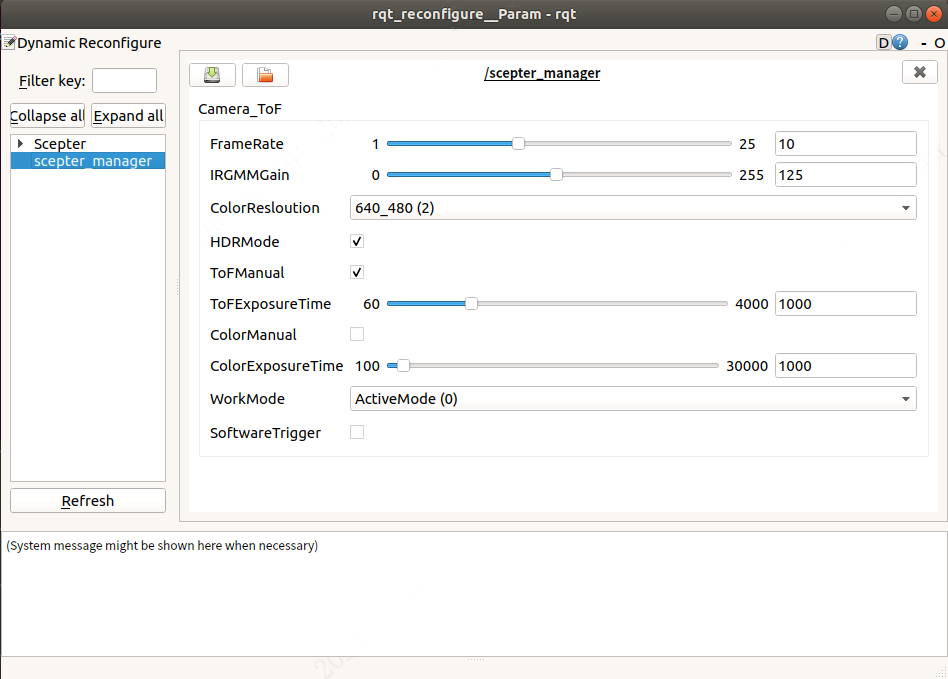
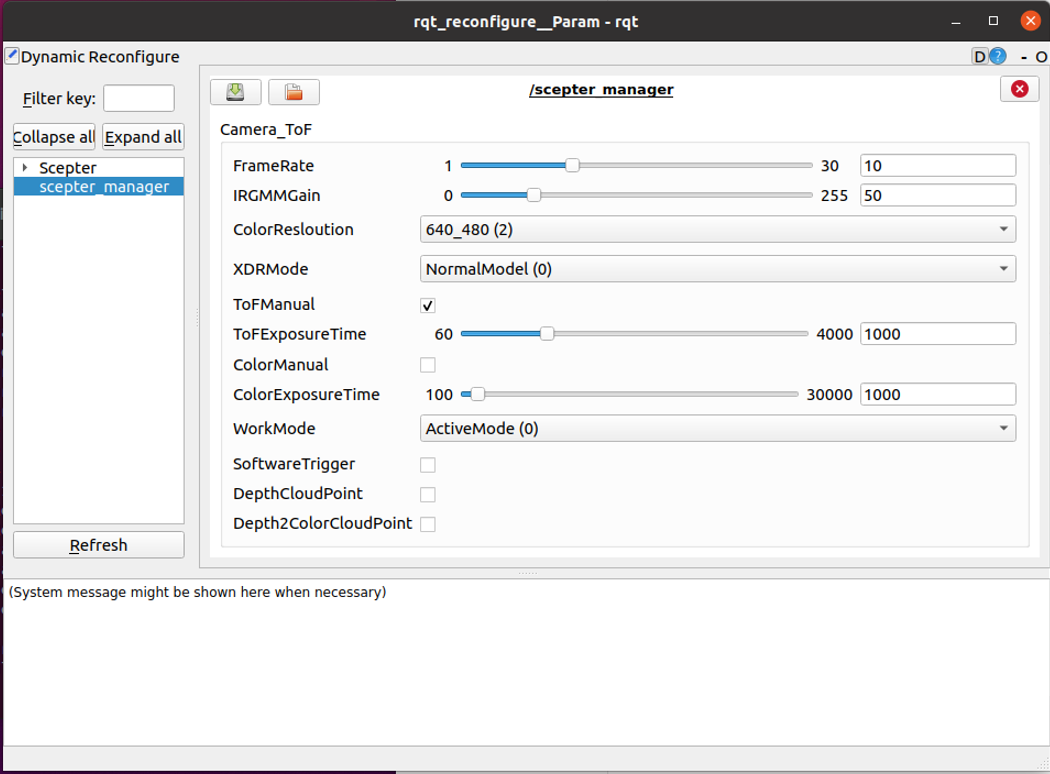
update doc for ros/ros2 and python

Changed region(s): [[0.0, 0.0, 1.0, 1.0], [0.9789, 0.7113, 1.0, 0.7732], [0.4895, 0.7113, 0.52, 0.7423]]

diff --git a/en/ScepterSDK/MultilanguageSDK/Python.md b/en/ScepterSDK/MultilanguageSDK/Python.md
@@ -963,7 +963,7 @@ Gets image data of the specified image type scGetFrameReady must be called befor
 def scGetDepthRangeValue(self):
     minValue = c_int16(0)
     maxValue = c_int16(0)
-    return self.sc_cam_lib.scGetDepthRangeValue(self.device_handle, byref(minValue), byref(maxValue)), minValue, maxValue
+    return self.sc_cam_lib.scGetDepthRangeValue(self.device_handle, byref(minValue), byref(maxValue)), minValue.value, maxValue.value
  
 ```
 
@@ -1385,7 +1385,7 @@ param：The count of frame, in range [1,10].
 ```python
 def scGetSoftwareTriggerParameter(self):
     param = c_uint8(0)
-    return self.sc_cam_lib.scGetSoftwareTriggerParameter(self.device_handle, byref(param)), param
+    return self.sc_cam_lib.scGetSoftwareTriggerParameter(self.device_handle, byref(param)), param.value
 ```
 
 **Description：**
@@ -1729,8 +1729,8 @@ Set the exposure mode of sensor.
 
 ```python
 def scGetExposureControlMode(self, sensorType = ScSensorType.SC_TOF_SENSOR):
-    mode = ScCameraExposureControlMode(1)
-    return self.sc_cam_lib.scGetExposureControlMode(self.device_handle, sensorType.value, byref(mode)), mode
+    mode = c_uint8(1)
+    return self.sc_cam_lib.scGetExposureControlMode(self.device_handle, sensorType.value, byref(mode)), mode.value
 ```
 
 **Description：**
@@ -1779,7 +1779,7 @@ params：The exposure time. The value must be within the maximum exposure time o
 ```python
 def scGetExposureTime(self, sensorType = ScSensorType.SC_TOF_SENSOR):
     params = c_int32(0)
-    return self.sc_cam_lib.scGetExposureTime(self.device_handle, sensorType.value, byref(params)), params
+    return self.sc_cam_lib.scGetExposureTime(self.device_handle, sensorType.value, byref(params)), params.value
 ```
 
 **Description：**
@@ -1824,7 +1824,7 @@ params：The exposure time. The value must be within the maximum exposure time o
 ```python
 def scGetColorAECMaxExposureTime(self):
    params = c_int32(0)
-   return self.sc_cam_lib.scGetColorAECMaxExposureTime(self.device_handle, byref(params)), params
+   return self.sc_cam_lib.scGetColorAECMaxExposureTime(self.device_handle, byref(params)), params.value
 ```
 
 **Description：**
@@ -1848,7 +1848,7 @@ params：Returns the exposure time.
 ```python
 def scGetMaxExposureTime(self, sensorType = ScSensorType.SC_COLOR_SENSOR):
     tmp = c_int32(1000)
-    return self.sc_cam_lib.scGetMaxExposureTime(self.device_handle, sensorType.value, byref(tmp)), tmp
+    return self.sc_cam_lib.scGetMaxExposureTime(self.device_handle, sensorType.value, byref(tmp)), tmp.value
 ```
 
 **Description：**
@@ -2398,7 +2398,7 @@ enabled：Set to true to enable the feature or false to disable the feature.
 ```python
 def scGetTransformColorImgToDepthSensorEnabled(self):
     enabled = c_bool(True)
-    return self.sc_cam_lib.scGetTransformColorImgToDepthSensorEnabled(self.device_handle,  byref(enabled)),enabled
+    return self.sc_cam_lib.scGetTransformColorImgToDepthSensorEnabled(self.device_handle,  byref(enabled)),enabled.value
 ```
 
 **Description：**
@@ -2446,7 +2446,7 @@ enabled：Set to true to enable the feature or false to disable the feature.
 ```python
 def scGetTransformDepthImgToColorSensorEnabled(self):
     enabled = c_bool(True)
-    return self.sc_cam_lib.scGetTransformDepthImgToColorSensorEnabled(self.device_handle,  byref(enabled)),enabled
+    return self.sc_cam_lib.scGetTransformDepthImgToColorSensorEnabled(self.device_handle,  byref(enabled)),enabled.value
 ```
 
 **Description：**

diff --git a/zh-cn/ScepterSDK/MultilanguageSDK/Python.md b/zh-cn/ScepterSDK/MultilanguageSDK/Python.md
@@ -922,7 +922,7 @@ def scGetFrame(self,  frametype = ScFrameType.SC_DEPTH_FRAME):
 def scGetDepthRangeValue(self):
     minValue = c_int16(0)
     maxValue = c_int16(0)
-    return self.sc_cam_lib.scGetDepthRangeValue(self.device_handle, byref(minValue), byref(maxValue)), minValue, maxValue
+    return self.sc_cam_lib.scGetDepthRangeValue(self.device_handle, byref(minValue), byref(maxValue)), minValue.value, maxValue.value
  
 ```
 
@@ -1348,7 +1348,7 @@ param：图像帧数
 ```python
 def scGetSoftwareTriggerParameter(self):
     param = c_uint8(0)
-    return self.sc_cam_lib.scGetSoftwareTriggerParameter(self.device_handle, byref(param)), param
+    return self.sc_cam_lib.scGetSoftwareTriggerParameter(self.device_handle, byref(param)), param.value
 ```
 
 **函数功能：**
@@ -1691,8 +1691,8 @@ def scSetExposureControlMode(self, sensorType = ScSensorType.SC_TOF_SENSOR, mode
 
 ```python
 def scGetExposureControlMode(self, sensorType = ScSensorType.SC_TOF_SENSOR):
-    mode = ScCameraExposureControlMode(1)
-    return self.sc_cam_lib.scGetExposureControlMode(self.device_handle, sensorType.value, byref(mode)), mode
+    mode = c_uint8(1)
+    return self.sc_cam_lib.scGetExposureControlMode(self.device_handle, sensorType.value, byref(mode)), mode.value
 ```
 
 **函数功能：**
@@ -1743,7 +1743,7 @@ params：要设置的曝光时间参数
 ```python
 def scGetExposureTime(self, sensorType = ScSensorType.SC_TOF_SENSOR):
     params = c_int32(0)
-    return self.sc_cam_lib.scGetExposureTime(self.device_handle, sensorType.value, byref(params)), params
+    return self.sc_cam_lib.scGetExposureTime(self.device_handle, sensorType.value, byref(params)), params.value
 ```
 
 **函数功能：**
@@ -1788,7 +1788,7 @@ params：曝光时间参数
 ```python
 def scGetColorAECMaxExposureTime(self):
    params = c_int32(0)
-   return self.sc_cam_lib.scGetColorAECMaxExposureTime(self.device_handle, byref(params)), params
+   return self.sc_cam_lib.scGetColorAECMaxExposureTime(self.device_handle, byref(params)), params.value
 ```
 
 **函数功能：**
@@ -1812,7 +1812,7 @@ params：返回获取的曝光时间参数
 ```python
 def scGetMaxExposureTime(self, sensorType = ScSensorType.SC_COLOR_SENSOR):
     tmp = c_int32(1000)
-    return self.sc_cam_lib.scGetMaxExposureTime(self.device_handle, sensorType.value, byref(tmp)), tmp
+    return self.sc_cam_lib.scGetMaxExposureTime(self.device_handle, sensorType.value, byref(tmp)), tmp.value
 ```
 
 **函数功能：**
@@ -2362,7 +2362,7 @@ enabled：true 打开对齐，false 关闭对齐
 ```python
 def scGetTransformColorImgToDepthSensorEnabled(self):
     enabled = c_bool(True)
-    return self.sc_cam_lib.scGetTransformColorImgToDepthSensorEnabled(self.device_handle,  byref(enabled)),enabled
+    return self.sc_cam_lib.scGetTransformColorImgToDepthSensorEnabled(self.device_handle,  byref(enabled)),enabled.value
 ```
 
 **函数功能：**
@@ -2407,7 +2407,7 @@ enabled：true 打开对齐，false 关闭对齐
 ```python
 def scGetTransformDepthImgToColorSensorEnabled(self):
     enabled = c_bool(True)
-    return self.sc_cam_lib.scGetTransformDepthImgToColorSensorEnabled(self.device_handle,  byref(enabled)),enabled
+    return self.sc_cam_lib.scGetTransformDepthImgToColorSensorEnabled(self.device_handle,  byref(enabled)),enabled.value
 ```
 
 **函数功能：**

diff --git a/en/ScepterSDK/3rd-Party-Plugin/ROS.md b/en/ScepterSDK/3rd-Party-Plugin/ROS.md
@@ -199,8 +199,10 @@ Run the cmd "**python install.py [your operating system]", take **Ubuntu18.04** 
 
 > - Modifying the **FrameRate** will affect the maximum of **ToFExposureTime** and **ColorExposureTime**
 > - The value is invalid when **ToFExposureTime** or **ColorExposureTime** is set above the maximum value
-> - **HDRMode** takes effect only when **ToFManual** is True
+> - **XDRMode** NormalMode(0: HDR and WDR set false), HDRMode(1: only HDR set true), WDRMode(2: only WDR set true)
 > - **ToFManual** set to false is invalid when **HDRMode** is True
+> - **DepthCloudPoint** set true, publish depth to cloudpoint
+> - **Depth2ColorCloudPoint** set true, publish transformeddepth to cloudpoint
 
 **4. Show PointCloud**
 
@@ -320,8 +322,10 @@ Rviz can show frames of multi topics
 >
 > - Modifying the **FrameRate** will affect the maximum of **ToFExposureTime** and **ColorExposureTime**
 > - The value is invalid when **ToFExposureTime** or **ColorExposureTime** is set above the maximum value
-> - **HDRMode** takes effect only when **ToFManual** is True
+> - **XDRMode** NormalMode(0: HDR and WDR set false), HDRMode(1: only HDR set true), WDRMode(2: only WDR set true)
 > - **ToFManual** set to false is invalid when **HDRMode** is True
+> - **DepthCloudPoint** set true, publish depth to cloudpoint
+> - **Depth2ColorCloudPoint** set true, publish transformeddepth to cloudpoint
 
 **5. Show PointCloud**
 
@@ -382,23 +386,39 @@ Rviz can only show one topic
 
 The scepter_manager publishes messages defined by the [sensor_msgs](http://wiki.ros.org/sensor_msgs) package on the following topics
 
+- /Scepter/color/camera_info
+- /Scepter/color/image_raw 
 - /Scepter/depth/camera_info
-- /Scepter/color/image_raw
-- /Scepter/depth/image_raw
-- /Scepter/ir/image_raw
-- /Scepter/transformedColor/image_raw
-- /Scepter/transformedDepth/image_raw
+- /Scepter/depth/image_raw 
+- /Scepter/ir/camera_info
+- /Scepter/ir/image_raw 
+- /Scepter/transformedColor/camera_info
+- /Scepter/transformedColor/image_raw 
+- /Scepter/transformedDepth/camera_info
+- /Scepter/transformedDepth/image_raw 
+- /Scepter/depth2colorCloudPoint/camera_info
+- /Scepter/depth2colorCloudPoint/cloud_points
+- /Scepter/depthCloudPoint/camera_info
+- /Scepter/depthCloudPoint/cloud_points
 
 #### **ROS_MultiCameras**
 
 The scepter_manager publishes messages defined by the [sensor_msgs](http://wiki.ros.org/sensor_msgs) package on the following topics
 
+- /**nodename**/color/camera_info
+- /**nodename**/color/image_raw 
 - /**nodename**/depth/camera_info
-- /**nodename**/color/image_raw
-- /**nodename**/depth/image_raw
-- /**nodename**/ir/image_raw
-- /**nodename**/transformedDepth/image_raw
-- /**nodename**/transformedColor/image_raw
+- /**nodename**/depth/image_raw 
+- /**nodename**/ir/camera_info
+- /**nodename**/ir/image_raw 
+- /**nodename**/transformedColor/camera_info
+- /**nodename**/transformedColor/image_raw 
+- /**nodename**/transformedDepth/camera_info
+- /**nodename**/transformedDepth/image_raw 
+- /**nodename**/depth2colorCloudPoint/camera_info
+- /**nodename**/depth2colorCloudPoint/cloud_points
+- /**nodename**/depthCloudPoint/camera_info
+- /**nodename**/depthCloudPoint/cloud_points
 
 ![topic](../../../zh-cn/ScepterSDK/3rd-Party-Plugin/ROS-asserts/28.png)
 

diff --git a/zh-cn/ScepterSDK/3rd-Party-Plugin/ROS.md b/zh-cn/ScepterSDK/3rd-Party-Plugin/ROS.md
@@ -186,8 +186,10 @@
 >
 > - 修改 FrameRate 将影响 ToFExposureTime 和 ColorExposureTime 的最大值
 > - 当 ToFExposureTime 或 ColorExposureTime 设置高于最大值时，该值无效
-> - HDRMode 仅在 ToFManual 为 True 时生效
+> - XDRMode NormalMode(0: HDR和WDR均为关闭状态), HDRMode(1：仅使能HDR), WDRMode(2: 仅使能WDR)
 > - ToFManual 设置为 false 时，HDRMode 为 True 时无效
+> - DepthCloudPoint 勾选后，发送Depth转点云的数据
+> - Depth2ColorCloudPoint勾选后，发送Color空间的Depth转点云的数据
 
 **4. 显示点云**
 
@@ -303,8 +305,10 @@ Rviz 可以显示多个话题的界面
 >
 > - 修改 FrameRate 将影响 ToFExposureTime 和 ColorExposureTime 的最大值
 > - 当 ToFExposureTime 或 ColorExposureTime 设置高于最大值时，该值无效
-> - HDRMode 仅在 ToFManual 为 True 时生效
+> - XDRMode NormalMode(0: HDR和WDR均为关闭状态), HDRMode(1：仅使能HDR), WDRMode(2: 仅使能WDR)
 > - ToFManual 设置为 false 时，HDRMode 为 True 时无效
+> - DepthCloudPoint 勾选后，发送Depth转点云的数据
+> - Depth2ColorCloudPoint勾选后，发送Color空间的Depth转点云的数据
 
 **5. 显示点云**
 
@@ -365,23 +369,39 @@ Rviz 只能显示一个话题
 
 Scepter_manager 发布由 [sensor_msgs](http://wiki.ros.org/sensor_msgs) 包定义的以下话题
 
+- /Scepter/color/camera_info
+- /Scepter/color/image_raw 
 - /Scepter/depth/camera_info
-- /Scepter/color/image_raw
-- /Scepter/depth/image_raw
-- /Scepter/ir/image_raw
-- /Scepter/transformedColor/image_raw
-- /Scepter/transformedDepth/image_raw
+- /Scepter/depth/image_raw 
+- /Scepter/ir/camera_info
+- /Scepter/ir/image_raw 
+- /Scepter/transformedColor/camera_info
+- /Scepter/transformedColor/image_raw 
+- /Scepter/transformedDepth/camera_info
+- /Scepter/transformedDepth/image_raw 
+- /Scepter/depth2colorCloudPoint/camera_info
+- /Scepter/depth2colorCloudPoint/cloud_points
+- /Scepter/depthCloudPoint/camera_info
+- /Scepter/depthCloudPoint/cloud_points
 
 #### **ROS_MultiCameras**
 
 Scepter_manager 发布由 [sensor_msgs](http://wiki.ros.org/sensor_msgs) 包定义的以下话题
 
+- /**nodename**/color/camera_info
+- /**nodename**/color/image_raw 
 - /**nodename**/depth/camera_info
-- /**nodename**/color/image_raw
-- /**nodename**/depth/image_raw
-- /**nodename**/ir/image_raw
-- /**nodename**/transformedDepth/image_raw
-- /**nodename**/transformedColor/image_raw
+- /**nodename**/depth/image_raw 
+- /**nodename**/ir/camera_info
+- /**nodename**/ir/image_raw 
+- /**nodename**/transformedColor/camera_info
+- /**nodename**/transformedColor/image_raw 
+- /**nodename**/transformedDepth/camera_info
+- /**nodename**/transformedDepth/image_raw 
+- /**nodename**/depth2colorCloudPoint/camera_info
+- /**nodename**/depth2colorCloudPoint/cloud_points
+- /**nodename**/depthCloudPoint/camera_info
+- /**nodename**/depthCloudPoint/cloud_points
 
 ![toROS-asserts](ROS-asserts/28.png)
 

diff --git a/en/ScepterSDK/3rd-Party-Plugin/ROS2.md b/en/ScepterSDK/3rd-Party-Plugin/ROS2.md
@@ -241,6 +241,8 @@ The scepter_manager publishes messages defined by the [sensor_msgs](http://wiki.
 - /Scepter/depth/image_raw
 - /Scepter/depth/points
 - /Scepter/depth/points/camera_info
+- /Scepter/depth2color/points
+- /Scepter/depth2color/points/camera_info
 - /Scepter/ir/camera_info
 - /Scepter/ir/image_raw
 - /Scepter/transformedColor/camera_info
@@ -258,6 +260,8 @@ The scepter_manager publishes messages defined by the [sensor_msgs](http://wiki.
 - /**nodename**/depth/image_raw
 - /**nodename**/depth/points
 - /**nodename**/depth/points/camera_info
+- /**nodename**/depth2color/points
+- /**nodename**/depth2color/points/camera_info
 - /**nodename**/ir/camera_info
 - /**nodename**/ir/image_raw
 - /**nodename**/transformedColor/camera_info
@@ -272,6 +276,18 @@ The scepter_manager publishes messages defined by the [sensor_msgs](http://wiki.
 </div>
 
 <!-- tabs:end -->
+
+> **Instructions:**
+>
+> 1. depth2color/points and depth2color/points/camera_info is disenabled by default, to set enable as follow: 
+> ```shell
+> > ros2 param set /<nodename> Depth2ColorCloudPointFlag  true
+> ```
+> 2. depth/points and depth/points/camera_info is enabled by default, to set disenable as follow: 
+> ```shell
+> >  ros2 param set /<nodename> DepthCloudPointFlag false
+> ```
+>  
 
 ## 4.2.5. Programming guide
 

diff --git a/zh-cn/ScepterSDK/3rd-Party-Plugin/ROS2.md b/zh-cn/ScepterSDK/3rd-Party-Plugin/ROS2.md
@@ -237,6 +237,8 @@ Scepter_manager 发布由 [sensor_msgs](http://wiki.ros2.org/sensor_msgs) 包定
 - /Scepter/depth/image_raw
 - /Scepter/depth/points
 - /Scepter/depth/points/camera_info
+- /Scepter/depth2color/points
+- /Scepter/depth2color/points/camera_info
 - /Scepter/ir/camera_info
 - /Scepter/ir/image_raw
 - /Scepter/transformedColor/camera_info
@@ -254,6 +256,8 @@ Scepter_manager 发布由 [sensor_msgs](http://wiki.ros2.org/sensor_msgs) 包定
 - /**nodename**/depth/image_raw
 - /**nodename**/depth/points
 - /**nodename**/depth/points/camera_info
+- /**nodename**/depth2color/points
+- /**nodename**/depth2color/points/camera_info
 - /**nodename**/ir/camera_info
 - /**nodename**/ir/image_raw
 - /**nodename**/transformedColor/camera_info
@@ -268,6 +272,18 @@ Scepter_manager 发布由 [sensor_msgs](http://wiki.ros2.org/sensor_msgs) 包定
 </div>
 
 <!-- tabs:end -->
+
+> **说明:**
+>
+> 1. depth2color/points 和 depth2color/points/camera_info 默认不使能，可通过如下命令打开
+> ```shell
+> > ros2 param set /<nodename> Depth2ColorCloudPointFlag  true
+> ```
+> 2. depth/points 和 depth/points/camera_info 默认使能，可通过如下命令关闭
+> ```shell
+> >  ros2 param set /<nodename> DepthCloudPointFlag false
+> ```
+> 
 
 ## 4.2.5. 编程指南
 
